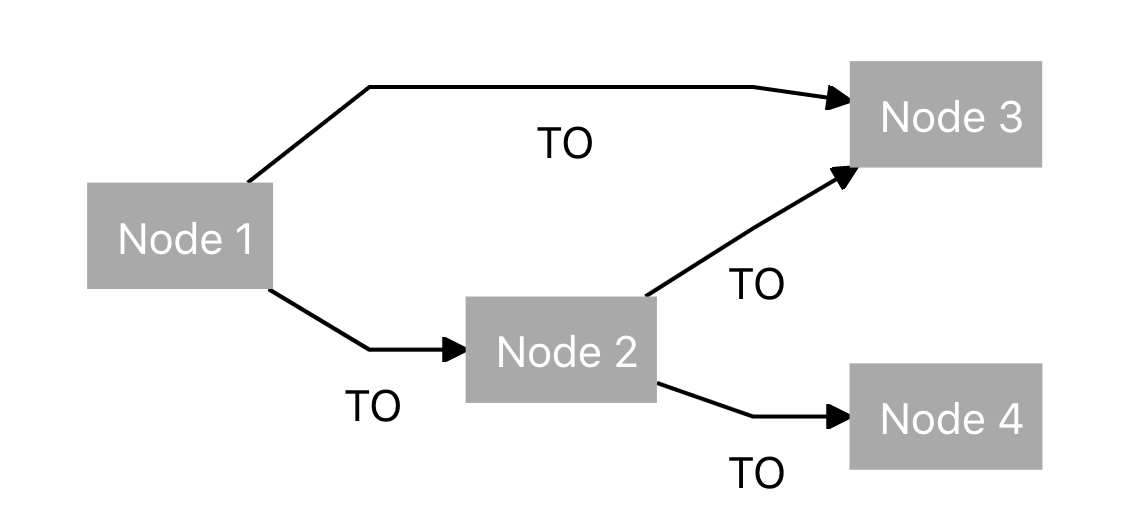
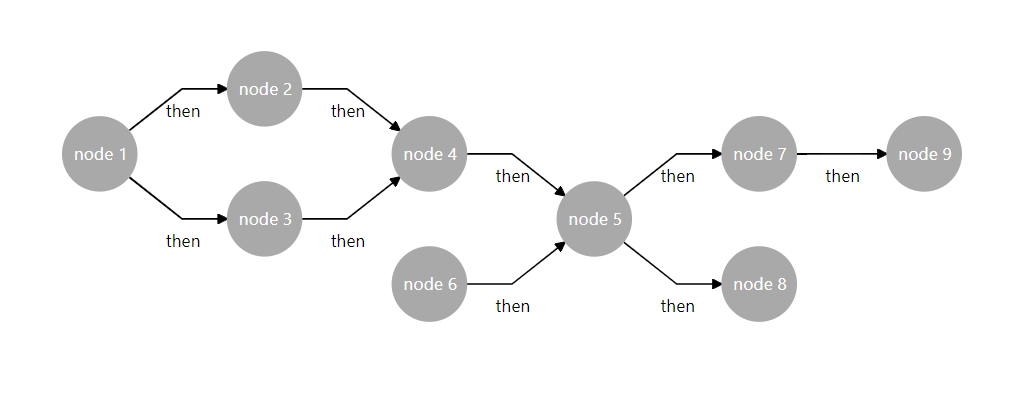
remove dbl/right click callbacks as they dont work updated readme updated screenshot added new layout algo

diff --git a/src/index.tsx b/src/index.tsx
@@ -13,12 +13,8 @@ interface GraphProps {
 	animate?: number
 	className?: string
 	shape?: shapes
-	onNodeClick: Function
-	onNodeRightClick: Function
-	onNodeDoubleClick: Function
-	onRelationshipClick: Function
-	onRelationshipDoubleClick: Function
-	onRelationshipRightClick: Function
+	onNodeClick?: Function
+	onRelationshipClick?: Function
 }
 type rankdir = 'TB' | 'BT' | 'LR' | 'RL'
 type shapes = 'rect' | 'circle' | 'ellipse'
@@ -63,26 +59,10 @@ class DagreGraph extends Component<GraphProps> {
 	}
 
 	_drawChart = () => {
-		let {
-			nodes,
-			links,
-			zoomable,
-			fitBoundaries,
-			rankdir,
-			animate,
-			shape,
-			onNodeClick,
-			onNodeRightClick,
-			onNodeDoubleClick,
-			onRelationshipClick,
-			onRelationshipRightClick,
-			onRelationshipDoubleClick
-		} = this.props
+		const { nodes, links, zoomable, fitBoundaries, rankdir, animate, shape, onNodeClick, onRelationshipClick } = this.props
 		let g = new dagreD3.graphlib.Graph().setGraph({ rankdir })
 
-		nodes.forEach(node =>
-			g.setNode(node.id, { label: node.label, class: node.class || '', labelType: node.labelType || 'string' })
-		)
+		nodes.forEach(node => g.setNode(node.id, { label: node.label, class: node.class || '', labelType: node.labelType || 'string' }))
 
 		if (shape) {
 			g.nodes().forEach(v => (g.node(v).shape = shape))
@@ -108,12 +88,24 @@ class DagreGraph extends Component<GraphProps> {
 		render(inner, g)
 
 		if (fitBoundaries) {
-			let _initial_scale = 0.5
-			svg.call(
-				zoom.transform,
-				d3.zoomIdentity.translate((svg.attr('width') - g.graph().width * _initial_scale) / 2, 20).scale(_initial_scale)
-			)
-			svg.attr('height', g.graph().height * _initial_scale + 180)
+			//@BertCh recommendation for fitting boundaries
+			const bounds = inner.node().getBBox()
+			const parent = inner.node().parentElement
+			const fullWidth = parent.clientWidth || parent.parentNode.clientWidth
+			const fullHeight = parent.clientHeight || parent.parentNode.clientHeight
+			const width = bounds.width
+			const height = bounds.height
+			const midX = bounds.x + width / 2
+			const midY = bounds.y + height / 2
+			if (width === 0 || height === 0) return // nothing to fit
+			var scale = 0.9 / Math.max(width / fullWidth, height / fullHeight)
+			var translate = [fullWidth / 2 - scale * midX, fullHeight / 2 - scale * midY]
+			var transform = d3.zoomIdentity.translate(translate[0], translate[1]).scale(scale)
+
+			svg
+				.transition()
+				.duration(animate || 0) // milliseconds
+				.call(zoom.transform, transform)
 		}
 
 		if (onNodeClick) {
@@ -123,22 +115,6 @@ class DagreGraph extends Component<GraphProps> {
 				onNodeClick({ d3node: _node, original: _original })
 			})
 		}
-
-		if (onNodeRightClick) {
-			svg.selectAll('g.node').on('contextmenu', (id: any) => {
-				let _node = g.node(id)
-				let _original = this._getNodeData(id)
-				onNodeRightClick({ d3node: _node, original: _original })
-			})
-		}
-		if (onNodeDoubleClick) {
-			svg.selectAll('g.node').on('dblclick', (id: any) => {
-				let _node = g.node(id)
-				let _original = this._getNodeData(id)
-				onNodeDoubleClick({ d3node: _node, original: _original })
-			})
-		}
-
 		if (onRelationshipClick) {
 			svg.selectAll('g.edgeLabel').on('click', (id: Relationship) => {
 				let _source = g.node(id.v)
@@ -147,35 +123,6 @@ class DagreGraph extends Component<GraphProps> {
 				let _target = g.node(id.w)
 				let _original_target = this._getNodeData(id.w)
 				onRelationshipClick({
-					d3source: _source,
-					source: _original_source,
-					d3target: _target,
-					target: _original_target
-				})
-			})
-		}
-		if (onRelationshipRightClick) {
-			svg.selectAll('g.edgeLabel').on('contextmenu', (id: Relationship) => {
-				let _source = g.node(id.v)
-				let _original_source = this._getNodeData(id.v)
-
-				let _target = g.node(id.w)
-				let _original_target = this._getNodeData(id.w)
-				onRelationshipRightClick({
-					d3source: _source,
-					source: _original_source,
-					d3target: _target,
-					target: _original_target
-				})
-			})
-		}
-		if (onRelationshipDoubleClick) {
-			svg.selectAll('g.edgeLabel').on('dblclick', (id: Relationship) => {
-				let _source = g.node(id.v)
-				let _original_source = this._getNodeData(id.v)
-				let _target = g.node(id.w)
-				let _original_target = this._getNodeData(id.w)
-				onRelationshipDoubleClick({
 					d3source: _source,
 					source: _original_source,
 					d3target: _target,

diff --git a/README.md b/README.md
@@ -2,9 +2,6 @@
 
 Dagre D3 Graph Renderer built on [DagreD3](https://github.com/dagrejs/dagre-d3)
 
-**_This is under active development as of 9/10/19_**<br>
-There may be breaking changes and I will update the README accordingly.
-
 ## Browsers
 
 - support IE11+, Chrome, Firefox, Safari
@@ -140,34 +137,10 @@ path {
       <td>Callback on node click</td>
     </tr>
     <tr>
-      <td>onNodeRightClick</td>
-      <td>Function</td>
-      <td></td>
-      <td>Callback on node right click</td>
-    </tr>
-    <tr>
-      <td>onNodeDoubleClick</td>
-      <td>Function</td>
-      <td></td>
-      <td>Callback on node double click</td>
-    </tr>
-    <tr>
       <td>onRelationshipClick</td>
       <td>Function</td>
       <td></td>
       <td>Callback relationship click (specifically the label)</td>
-    </tr>
-    <tr>
-      <td>onRelationshipRightClick</td>
-      <td>Function</td>
-      <td></td>
-      <td>Callback relationship right click (specifically the label)</td>
-    </tr>
-    <tr>
-      <td>onRelationshipDoubleClick</td>
-      <td>Function</td>
-      <td></td>
-      <td>Callback relationship double click (specifically the label)</td>
     </tr>
   </tbody>
 </table>
